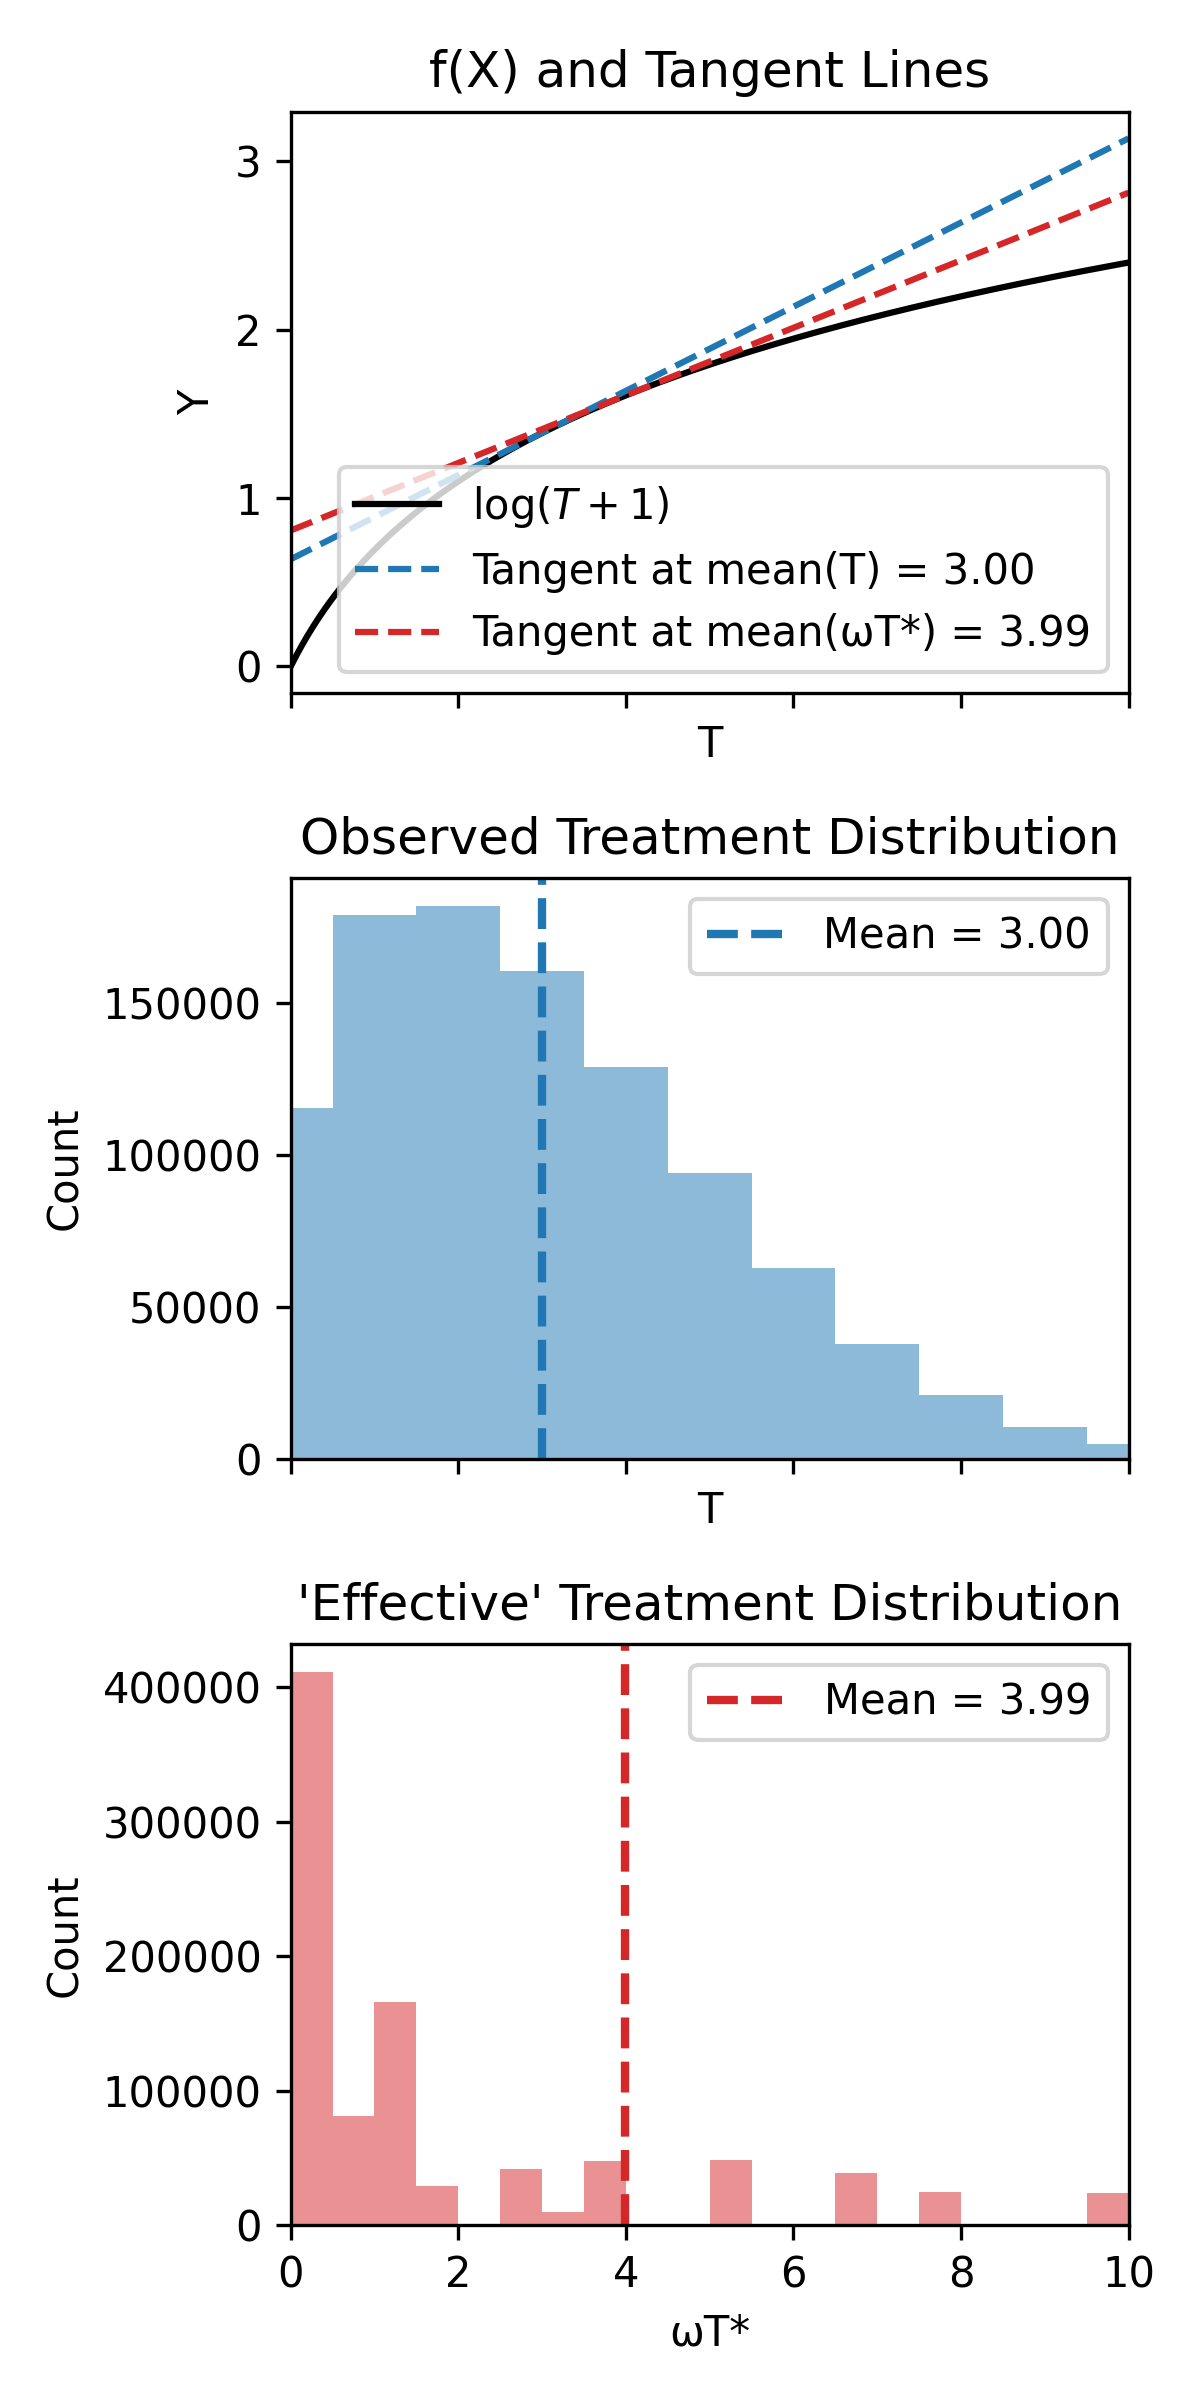
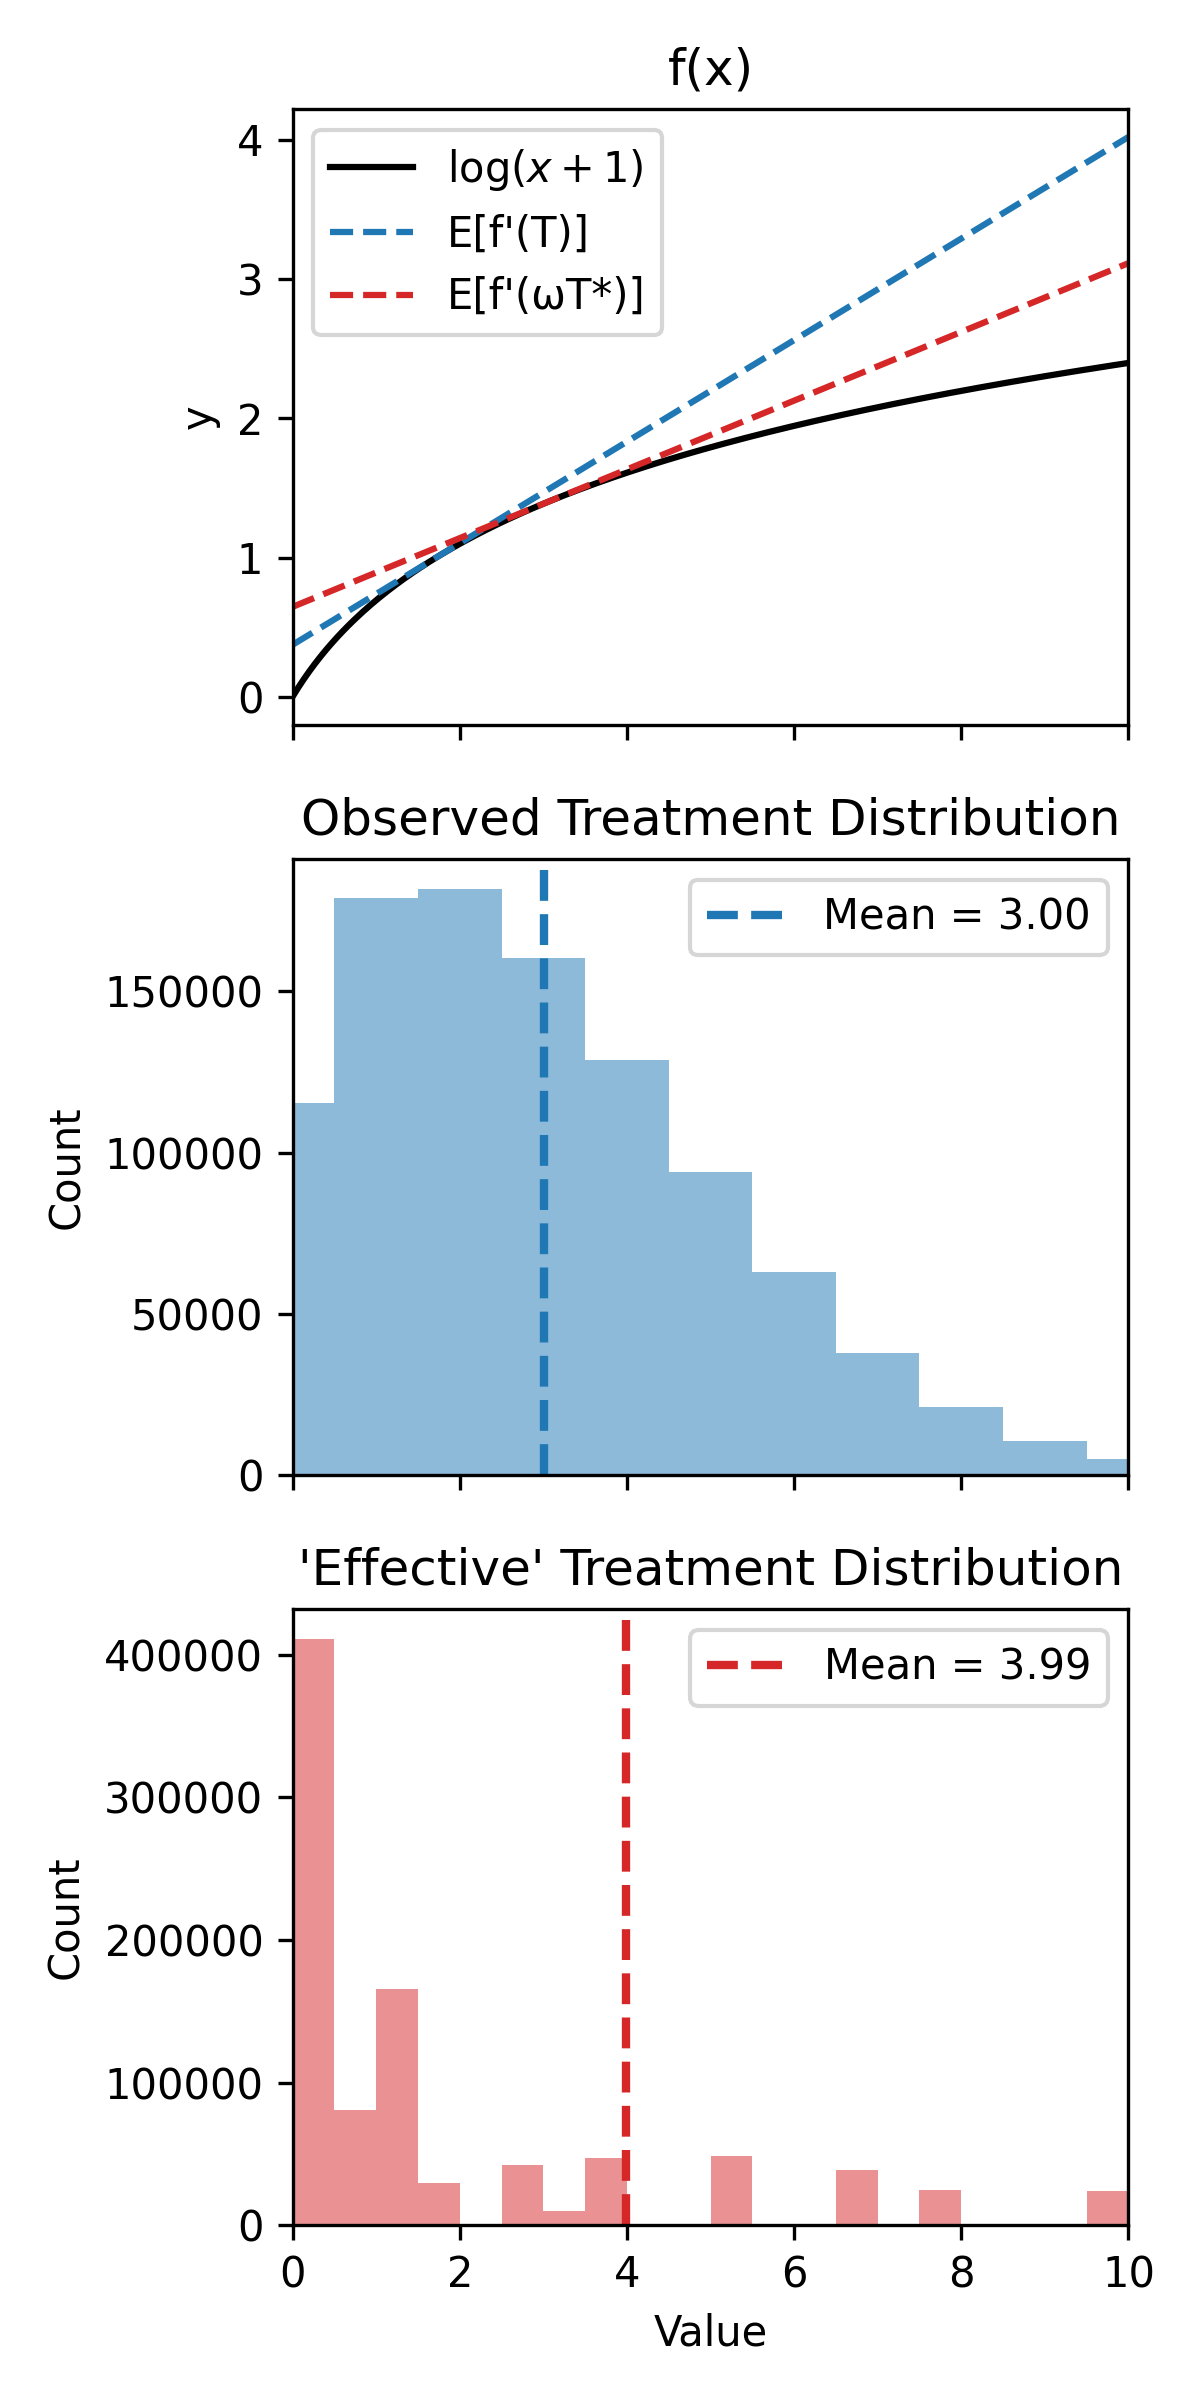
Update plot to show E[f'] instead of f'(E)

diff --git a/code/plot.py b/code/plot.py
@@ -1,88 +1,93 @@
 from matplotlib import pyplot as plt
 import numpy as np
+import pandas as pd   # ensure pandas is available
 
 
 def plot_simulation(df):
     """
-    Creates a 3x1 vertically aligned plot with the following subplots:
-    
-      1. Plot the function f(T)=log(T+1) over the domain [0,10]. Overlay two tangent
-         lines to this curve at the x-values given by:
-           - mean of df["t"]
-           - mean of (df["weight"] * df["t_star"])
-         (Each tangent line has slope 1/(x+1) at its corresponding x-value.)
-         
-      2. Histogram (bar plot) of "t" with a vertical line at its mean.
-            
-      3. Histogram (bar plot) of "weight * t_star" with a vertical line at its mean.
-      
-    All subplots share the same x-axis domain [0, 10]. The colors for the tangent lines
-    in subplot 1 are coordinated with the vertical mean lines in the corresponding histograms.
-    
-    Parameters:
-        df (pd.DataFrame): DataFrame containing columns 't', 'weight', and 't_star'.
-    
-    Returns:
-        matplotlib.figure.Figure: The figure object containing the 4 subplots.
+    Three vertically stacked plots:
+
+      1.  f(x)=log(x+1) plus *one* tangent line for each of T and ωT*.
+          •  The slope of each tangent is the average derivative E[1/(X+1)].
+          •  The tangent point x0 satisfies 1/(x0+1)=E[1/(X+1)].
+
+      2.  Histogram of T with a vertical line at mean(T).
+
+      3.  Histogram of ωT* with a vertical line at mean(ωT*).
+
+    Parameters
+    ----------
+    df : pd.DataFrame
+        Columns required: 't', 'weight', 't_star'.
+
+    Returns
+    -------
+    matplotlib.figure.Figure
     """
-    # Compute the means used for tangent lines and histogram vertical lines.
-    mean_T = df["t"].mean()
-    mean_WT_star = (df["weight"] * df["t_star"]).mean()
-    
-    # Define the colors used for each quantity for consistency:
-    color_T = 'tab:blue'
-    color_WT_star = 'tab:red'
-    
-    # Define the domain for plotting: x from 0 to 10.
+    # ---------- data ----------
+    T = df["t"].to_numpy()
+    T_star = df["t_star"].to_numpy()
+    WT_star = (df["weight"] * df["t_star"]).to_numpy()
+
+    mean_T, mean_WT_star = T.mean(), WT_star.mean()
+
+    # ---------- helper: compute slope and tangent point ----------
+    def slope_and_anchor(values, weights=None):
+        """Return (slope, x0, f(x0)) for the average derivative tangent."""
+        if weights is None:
+            weights = np.ones(len(values))
+        slope = np.mean(1.0 / (values + 1) * weights)
+        x0 = 1.0 / slope - 1.0            # solve 1/(x0+1)=slope
+        y0 = np.log(x0 + 1.0)
+        return slope, x0, y0
+
+    m_T,  x0_T,  y0_T  = slope_and_anchor(T)
+    m_WT, x0_WT, y0_WT = slope_and_anchor(T_star, df["weight"].to_numpy())
+    print(m_T)
+    print(m_WT)
+    # ---------- domain ----------
     x = np.linspace(0, 10, 300)
-    f_x = np.log(x + 1)  # f(x) = log(x+1)
-    
-    # For each chosen x0, compute the tangent line to f(x).
-    # Tangent line at x0: L(x) = log(x0+1) + (1/(x0+1))*(x - x0)
-    def tangent_line(x, x0):
-        return np.log(x0 + 1) + (1 / (x0 + 1)) * (x - x0)
-    
-    tangent_T = tangent_line(x, mean_T)
-    tangent_WT_star = tangent_line(x, mean_WT_star)
-    
-    # Create a 3x1 subplot figure (vertical stack).
+    f_x = np.log(x + 1)
+
+    # ---------- tangent lines ----------
+    tangent_T  = y0_T  + m_T  * (x - x0_T)
+    tangent_WT = y0_WT + m_WT * (x - x0_WT)
+
+    # ---------- figure ----------
+    color_T, color_WT_star = "tab:blue", "tab:red"
     fig, axs = plt.subplots(3, 1, figsize=(4, 8), sharex=True)
-    
-    # --- Subplot 1: Function and tangent lines.
-    axs[0].plot(x, f_x, label=r'$\log(T+1)$', color='black')
-    axs[0].plot(x, tangent_T, label=f'Tangent at mean(T) = {mean_T:.2f}', 
-                color=color_T, linestyle='--')
-    axs[0].plot(x, tangent_WT_star, label=f'Tangent at mean(ωT*) = {mean_WT_star:.2f}', 
-                color=color_WT_star, linestyle='--')
+
+    # -- subplot 1: curve + tangents --
+    axs[0].plot(x, f_x, color="black", label=r"$\log(x+1)$")
+    axs[0].plot(x, tangent_T,  "--", color=color_T,
+                label="E[f'(T)]")
+    axs[0].plot(x, tangent_WT, "--", color=color_WT_star,
+                label="E[f'(ωT*)]")
     axs[0].set_xlim(0, 10)
-    axs[0].set_title('f(X) and Tangent Lines')
-    axs[0].set_xlabel('T')
-    axs[0].set_ylabel('Y')
+    axs[0].set_title("f(x)")
+    axs[0].set_ylabel("y")
     axs[0].legend()
-    
-    # --- Subplot 2: Histogram of T.
-    # Use bins for integer data (e.g., bins from -0.5 to 10.5 for T values 0 to 10).
+
+    # -- subplot 2: histogram of T --
     bins_T = np.arange(0, 12) - 0.5
-    axs[1].hist(df["t"], bins=bins_T, color=color_T, alpha=0.5)
-    axs[1].axvline(mean_T, color=color_T, linestyle='--', linewidth=2,
-                   label=f'Mean = {mean_T:.2f}')
+    axs[1].hist(T, bins=bins_T, color=color_T, alpha=0.5)
+    axs[1].axvline(mean_T, color=color_T, linestyle="--", linewidth=2,
+                   label=f"Mean = {mean_T:.2f}")
     axs[1].set_xlim(0, 10)
     axs[1].set_title("Observed Treatment Distribution")
-    axs[1].set_xlabel('T')
-    axs[1].set_ylabel('Count')
+    axs[1].set_ylabel("Count")
     axs[1].legend()
 
-    # --- Subplot 3: Histogram of W*T_star.
-    product_WT_star = df["weight"] * df["t_star"]
+    # -- subplot 3: histogram of ωT* --
     bins_WT_star = np.linspace(0, 10, 21)
-    axs[2].hist(product_WT_star, bins=bins_WT_star, color=color_WT_star, alpha=0.5)
-    mean_product_WT_star = product_WT_star.mean()
-    axs[2].axvline(mean_product_WT_star, color=color_WT_star, linestyle='--', linewidth=2,
-                   label=f'Mean = {mean_product_WT_star:.2f}')
+    axs[2].hist(WT_star, bins=bins_WT_star, color=color_WT_star, alpha=0.5)
+    axs[2].axvline(mean_WT_star, color=color_WT_star, linestyle="--", linewidth=2,
+                   label=f"Mean = {mean_WT_star:.2f}")
     axs[2].set_xlim(0, 10)
     axs[2].set_title("'Effective' Treatment Distribution")
-    axs[2].set_xlabel('ωT*')
-    axs[2].set_ylabel('Count')
+    axs[2].set_xlabel("Value")
+    axs[2].set_ylabel("Count")
     axs[2].legend()
+
     plt.tight_layout()
     return fig

diff --git a/code/simulation.py b/code/simulation.py
@@ -65,4 +65,4 @@ if __name__ == "__main__":
 
     plot_data = simulate_dataset(1_000_000, NUM_STRATA, seed=SEED)
     plot_simulation(plot_data).show()
-    plt.savefig("../figures/figure-1.png", dpi=300)
+    plt.savefig("figures/figure-1.png", dpi=300)

diff --git a/README.md b/README.md
@@ -6,3 +6,4 @@
 - Create a virtualenv by running `virtualenv venv` from the command line.
 - Activate the virtualenv.  For example, on MacOS run `source venv/bin/activate`.
 - Install the project dependencies by running `pip install -r requirements.txt`.
+- Run `python code/simulation.py`
